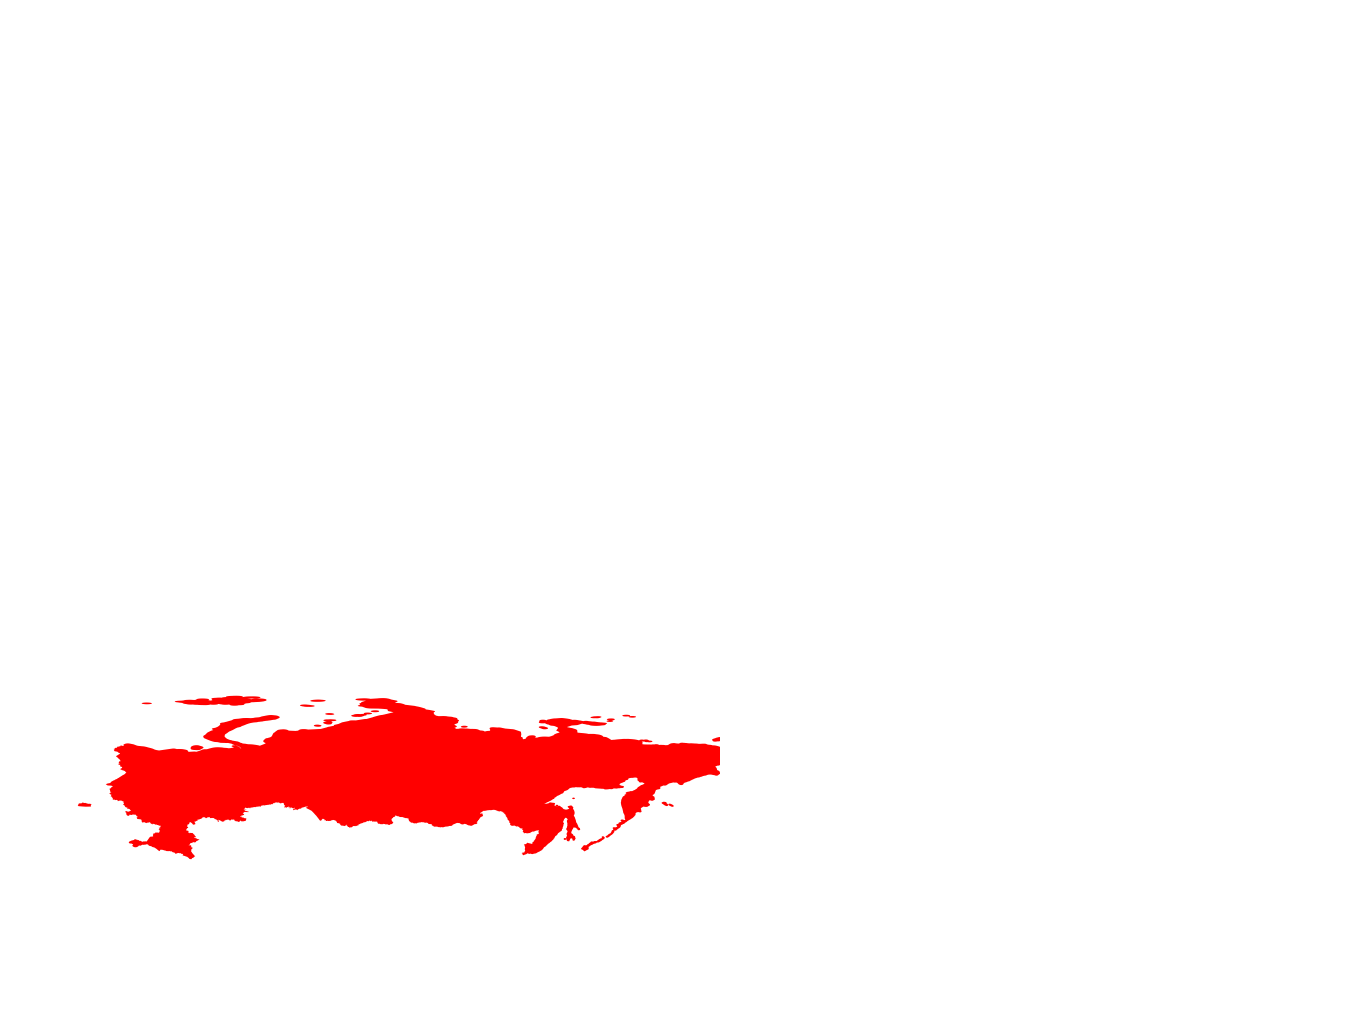
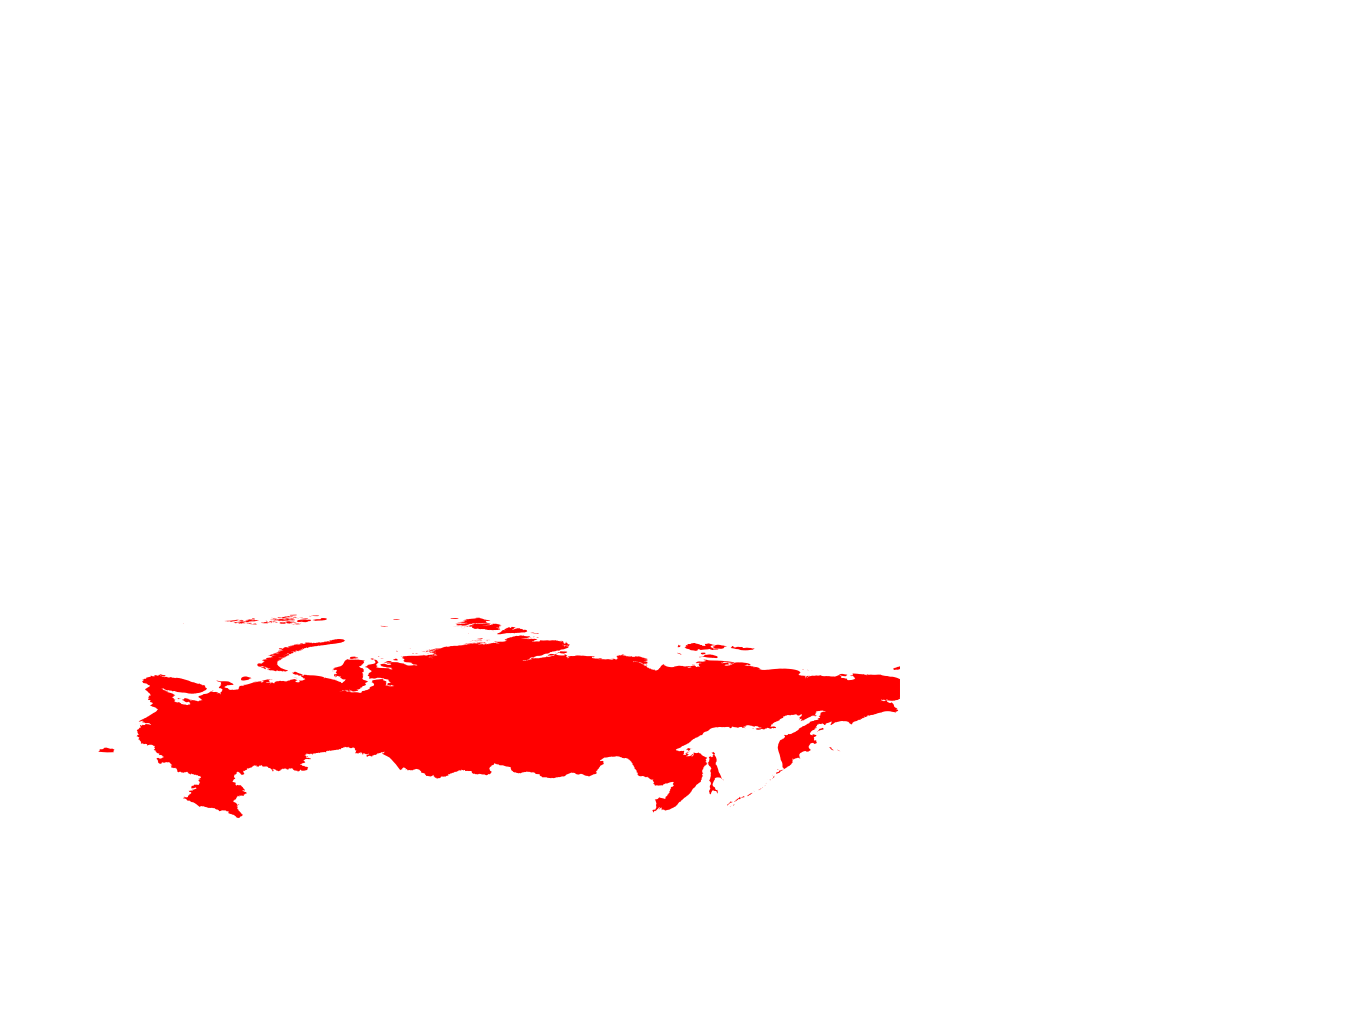
30 минут

Changed region(s): [[0.0615, 0.5938, 0.6764, 0.8438]]

diff --git a/Karta/main.go b/Karta/main.go
@@ -11,7 +11,7 @@ import (
 
 func main() {
 
-	file, err := os.Open("2_5467644889959236843.json")
+	file, err := os.Open("Regions.geojson")
 	if err != nil {
 		fmt.Println(err)
 		os.Exit(1)
@@ -40,7 +40,7 @@ func main() {
 	dc.SetHexColor("fff")
 
 	dc.InvertY()
-	dc.Scale(4, 4)
+	dc.Scale(5, 5)
 	for i := 0; i < len(fc1.Features); i++ {
 		for r := 0; r < len(fc1.Features[i].Geometry.MultiPolygon); r++ {
 			for k := 0; k < len(fc1.Features[i].Geometry.MultiPolygon[r]); k++ {
@@ -55,5 +55,4 @@ func main() {
 	dc.SetHexColor("f00")
 	dc.Fill()
 	dc.SavePNG("out.png")
-
 }
